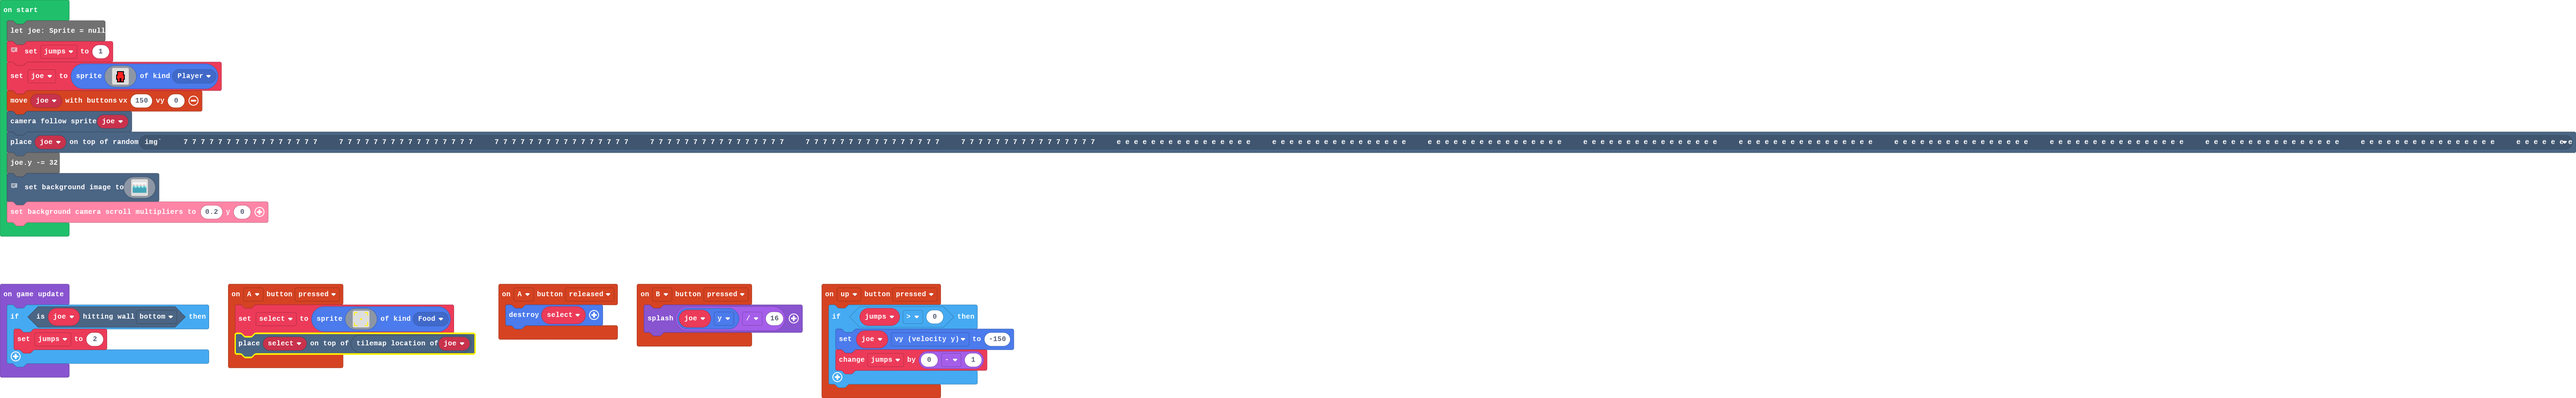
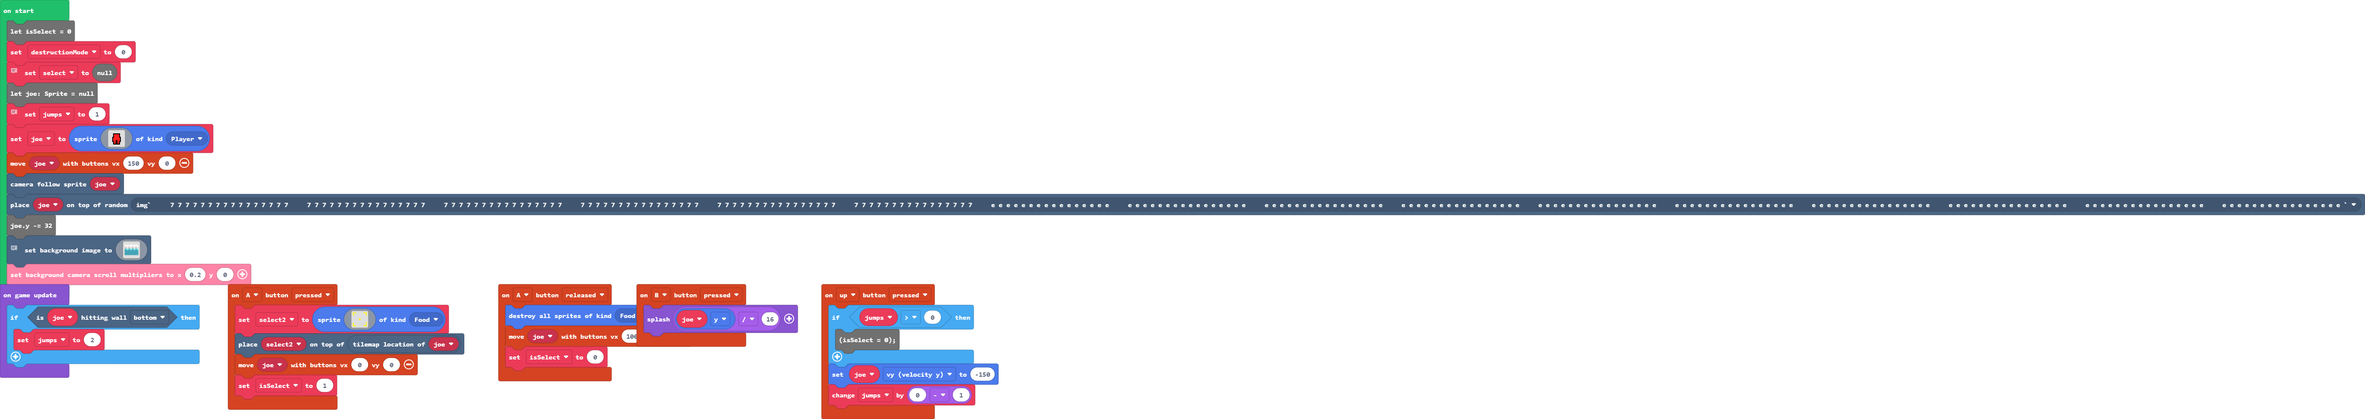
Update main.blocks, main.ts

Changed region(s): [[0.0, 0.0, 1.0, 1.0]]

diff --git a/main.ts b/main.ts
@@ -1,13 +1,14 @@
 //player and movement
 let jumps = 1
+let isSelect = 0
 
 controller.up.onEvent(ControllerButtonEvent.Pressed, function () {
- if (jumps > 0 && isSelect = 0) {
-     joe.vy = -150
-     jumps -= 1
+ if (jumps > 0) {
+     if (isSelect = 0) {
+           joe.vy = -150
+        jumps -= 1  
+     }
  }
-   
-
 })
 let joe: Sprite = null
 joe = sprites.create(img`
@@ -190,7 +191,7 @@ scroller.setCameraScrollingMultipliers(0.2, 0)
 //tile destruction
 let select : Sprite = null
 let destructionMode = 0 
-let isSelect = 0
+
 controller.A.onEvent(ControllerButtonEvent.Pressed, function() {
     let select = sprites.create(img`
         5 5 5 5 . . . . . . . . 5 5 5 5
